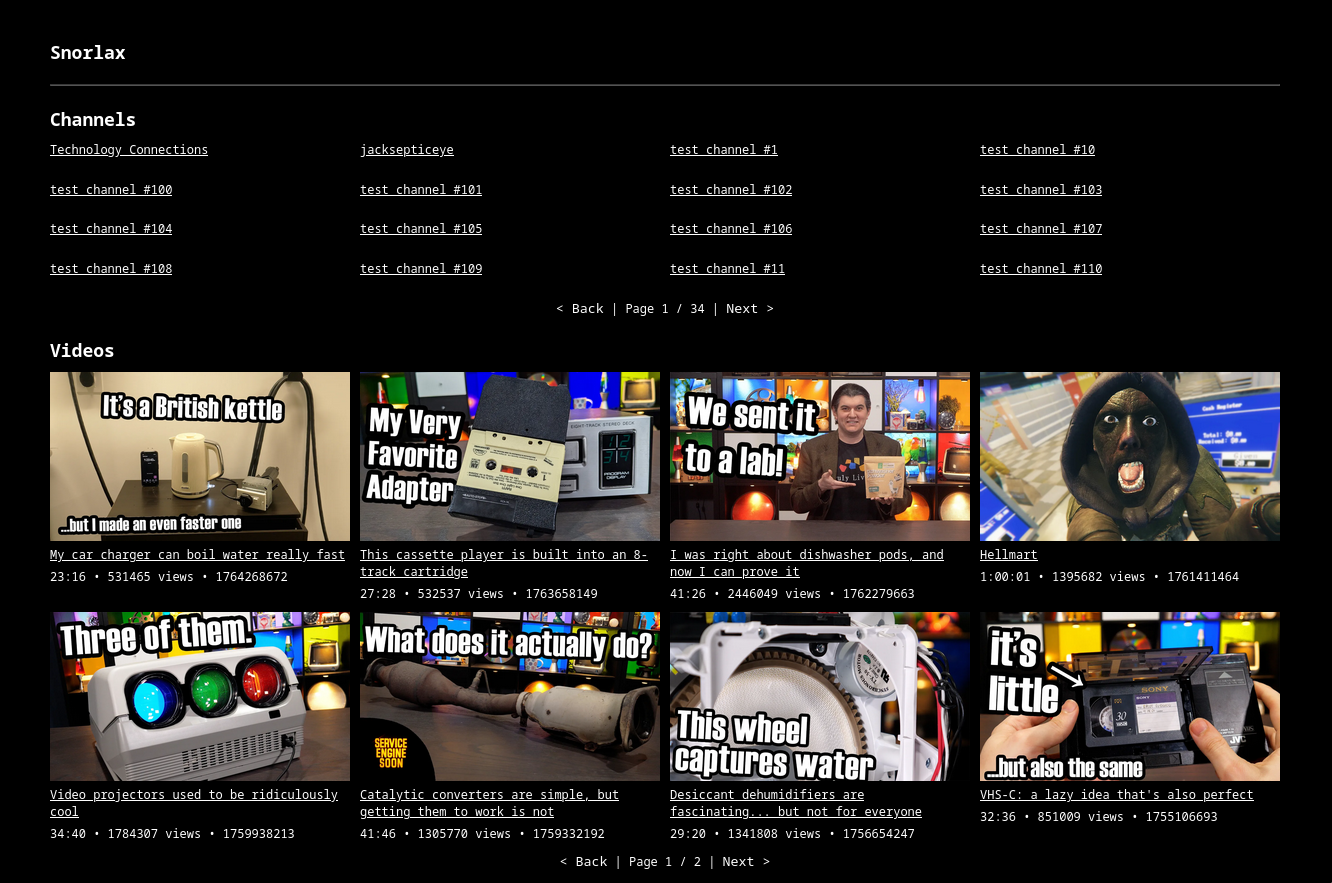
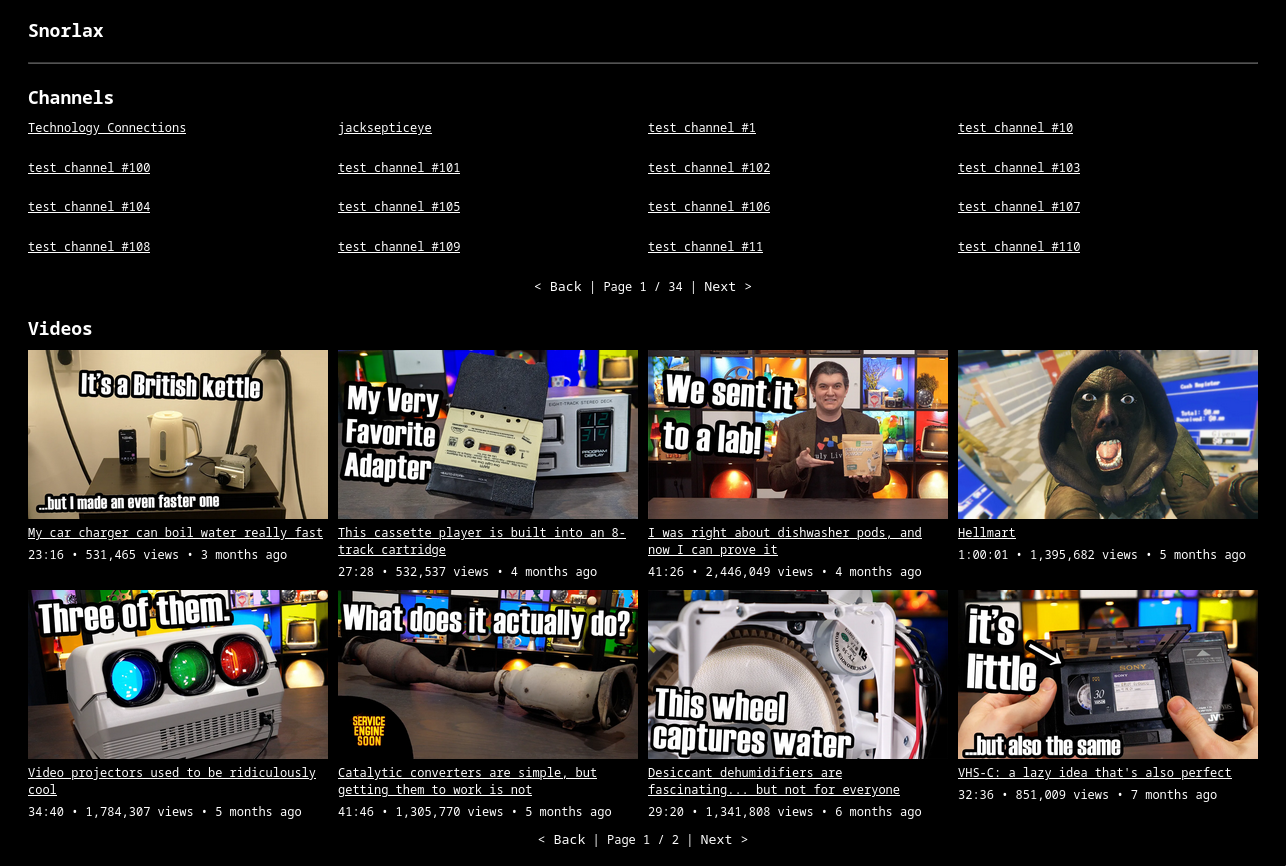
add missing js humanization, add todo list, bump python humanize

diff --git a/snorlax/static/js/pagination.js b/snorlax/static/js/pagination.js
@@ -1,5 +1,7 @@
 // Copyright (c) 2026 iiPython
 
+import { humanizeTime } from "./humanize.js";
+
 {
     for (const list of document.querySelectorAll("[data-api-type]")) {
         const type = list.getAttribute("data-api-type");
@@ -25,7 +27,7 @@
                                 <img src = "/videos/${item.uploader_id}/${item.id}.webp">
                                 <span>${item.title}</span>
                             </a>
-                            <span>${item.duration_string} • ${item.view_count} views • ${item.timestamp}</span>
+                            <span>${item.duration_string} • ${item.view_count.toLocaleString()} views • ${humanizeTime(item.timestamp)}</span>
                         `;
                         break;
     

diff --git a/snorlax/static/js/humanize.js b/snorlax/static/js/humanize.js
@@ -1,0 +1,18 @@
+const format = new Intl.RelativeTimeFormat("en", { numeric: "auto" });
+const secondAmounts = {
+    year:   60 * 60 * 24 * 365,
+    month:  60 * 60 * 24 * 30,
+    week:   60 * 60 * 24 * 7,
+    day:    60 * 60 * 24,
+    hour:   60 * 60,
+    minute: 60,
+    second: 1,
+};
+
+export function humanizeTime(timestamp) {
+    const now = Date.now() / 1000;
+    const diff = now - timestamp;
+    for (const [unit, secondsInUnit] of Object.entries(secondAmounts)) {
+        if (Math.abs(diff) >= secondsInUnit || unit === "second") return format.format(Math.round(-diff / secondsInUnit), unit);
+    }
+}

diff --git a/README.md b/README.md
@@ -27,3 +27,8 @@ curl -X POST http://localhost:8000/download/channel/YT_CHANNEL_ID
 ### Screenshot
 
 ![Snorlax Screenshot](.github/1.png)
+
+### Roadmap
+
+- [ ] Migrate /watch to an API endpoint, with JS-based humanize
+- [ ] Migrate the ingest methods to custom API endpoints
